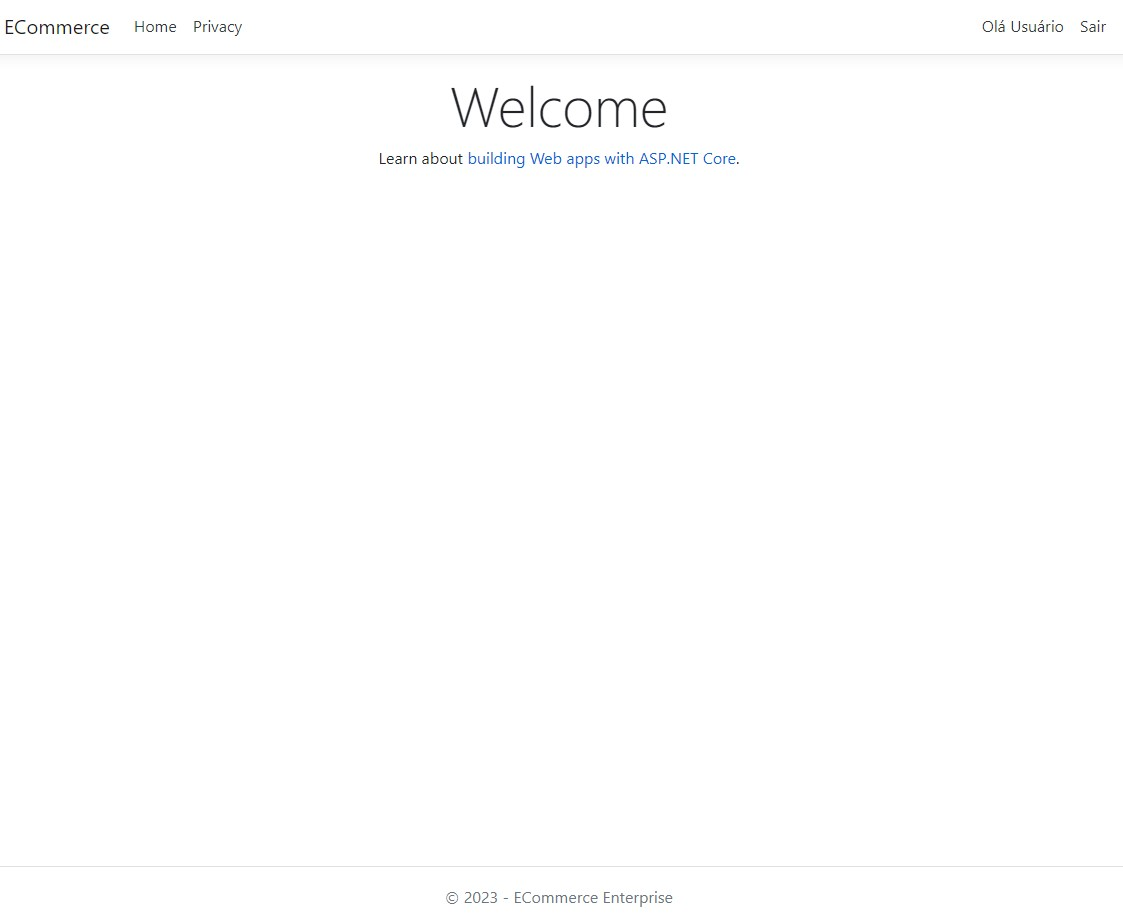
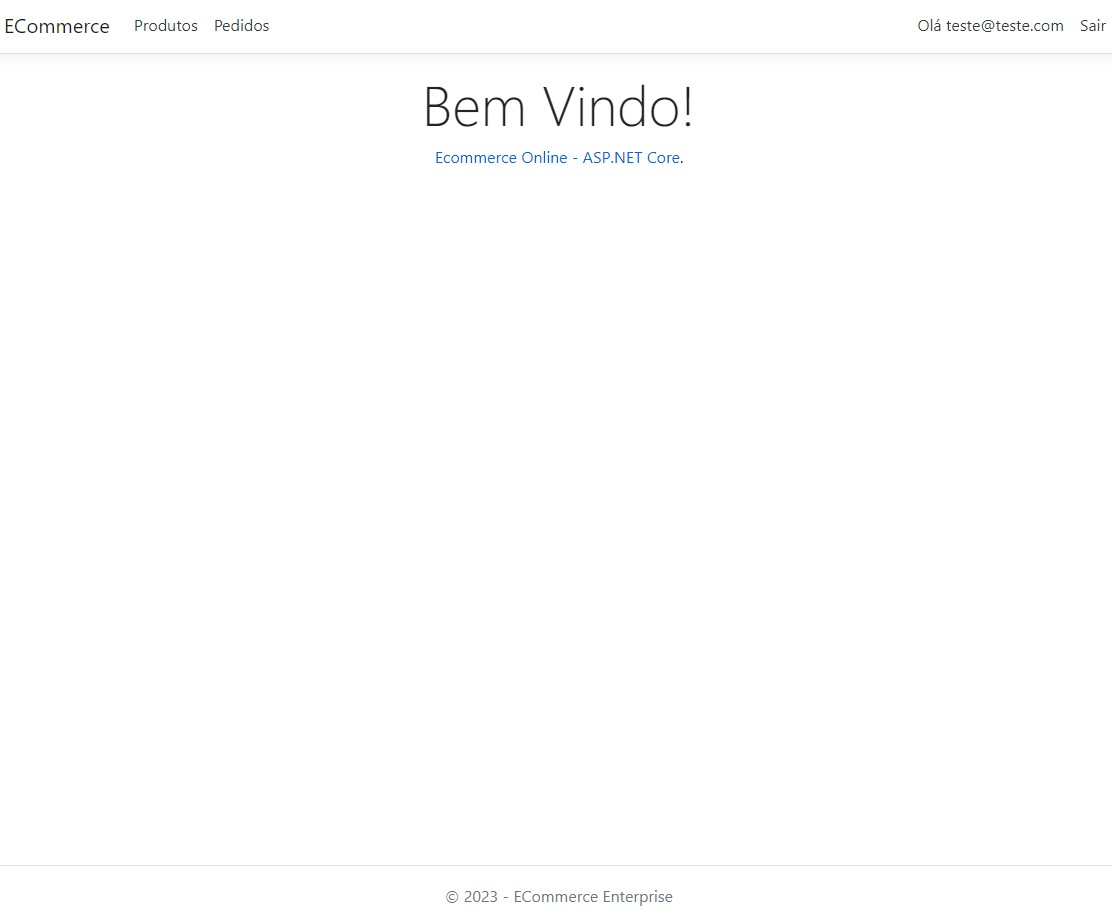
Obtendo dados de usuário do cookie

diff --git a/src/web/ECE.WebApp.MVC/Extensions/IUser.cs b/src/web/ECE.WebApp.MVC/Extensions/IUser.cs
@@ -1,0 +1,104 @@
+using Microsoft.AspNetCore.Http;
+using System;
+using System.Collections;
+using System.Collections.Generic;
+using System.Security.Claims;
+
+namespace ECE.WebApp.MVC.Extensions
+{
+    public interface IUser
+    {
+        string Name { get; }
+        Guid ObterUserId();
+        string ObterUserEmail();
+        string ObterUserToken();
+        bool EstaAutenticado();
+        bool PossuiRole(string role);
+        IEnumerable<Claim> ObterClaims();
+        HttpContext ObterHttpContext();
+    }
+
+    public class AspNetUser : IUser
+    {
+        private readonly IHttpContextAccessor _accessor;
+
+        public AspNetUser(IHttpContextAccessor accessor)
+        {
+            _accessor = accessor;
+        }
+
+        public string Name => _accessor.HttpContext.User.Identity.Name;
+
+        public Guid ObterUserId()
+        {
+            return EstaAutenticado() ? Guid.Parse(_accessor.HttpContext.User.GetUserId()) : Guid.Empty;
+        }
+
+        public string ObterUserEmail()
+        {
+            return EstaAutenticado() ? _accessor.HttpContext.User.GetUserEmail() : "";
+        }
+
+        public string ObterUserToken()
+        {
+            return EstaAutenticado() ? _accessor.HttpContext.User.GetUserToken() : "";
+        }
+
+        public bool EstaAutenticado()
+        {
+            return _accessor.HttpContext.User.Identity.IsAuthenticated;
+        }
+
+        public bool PossuiRole(string role)
+        {
+            return _accessor.HttpContext.User.IsInRole(role);
+        }
+
+        public IEnumerable<Claim> ObterClaims()
+        {
+            return _accessor.HttpContext.User.Claims;
+        }
+
+        public HttpContext ObterHttpContext()
+        {
+            return _accessor.HttpContext;
+        }
+    }
+
+    public static class ClaimsPrincipalExtensions
+    {
+        public static string GetUserId(this ClaimsPrincipal principal)
+        {
+            if (principal == null)
+            {
+                throw new ArgumentException(nameof(principal));
+            }
+
+            var claim = principal.FindFirst(ClaimTypes.NameIdentifier);
+            return claim?.Value;
+        }
+
+        public static string GetUserEmail(this ClaimsPrincipal principal)
+        {
+            if (principal == null)
+            {
+                throw new ArgumentException(nameof(principal));
+            }
+
+            var claim = principal.FindFirst("email");
+            return claim?.Value;
+        }
+
+        public static string GetUserToken(this ClaimsPrincipal principal)
+        {
+            if (principal == null)
+            {
+                throw new ArgumentException(nameof(principal));
+            }
+
+            var claim = principal.FindFirst("JWT");
+            return claim?.Value;
+        }
+    }
+}
+

diff --git a/src/web/ECE.WebApp.MVC/Configuration/DependencyInjectionConfig.cs b/src/web/ECE.WebApp.MVC/Configuration/DependencyInjectionConfig.cs
@@ -1,4 +1,6 @@
-using ECE.WebApp.MVC.Services;
+using ECE.WebApp.MVC.Extensions;
+using ECE.WebApp.MVC.Services;
+using Microsoft.AspNetCore.Http;
 using Microsoft.Extensions.DependencyInjection;
 
 namespace ECE.WebApp.MVC.Configuration
@@ -8,6 +10,8 @@ namespace ECE.WebApp.MVC.Configuration
         public static void RegisterServices(this IServiceCollection services)
         {
             services.AddHttpClient<IAutenticationService, AutenticationService>();
+            services.AddSingleton<IHttpContextAccessor, HttpContextAccessor>();
+            services.AddScoped<IUser, AspNetUser>();
         }
     }
 }
